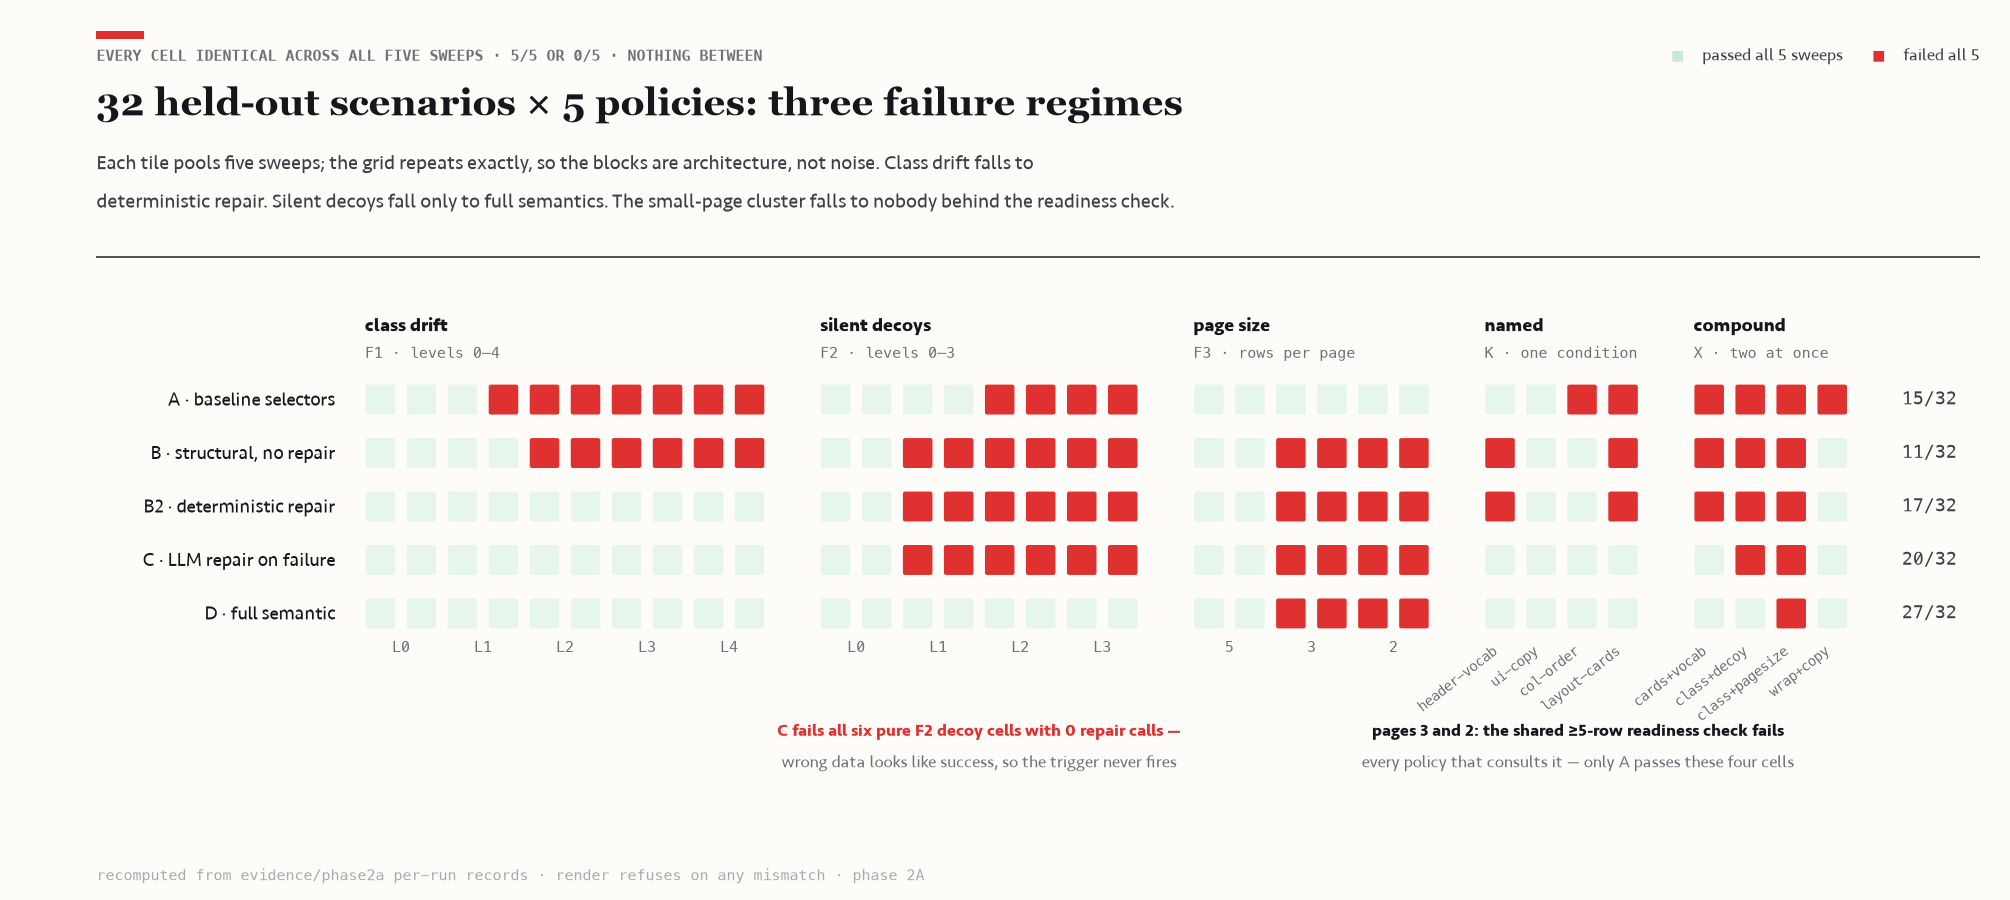
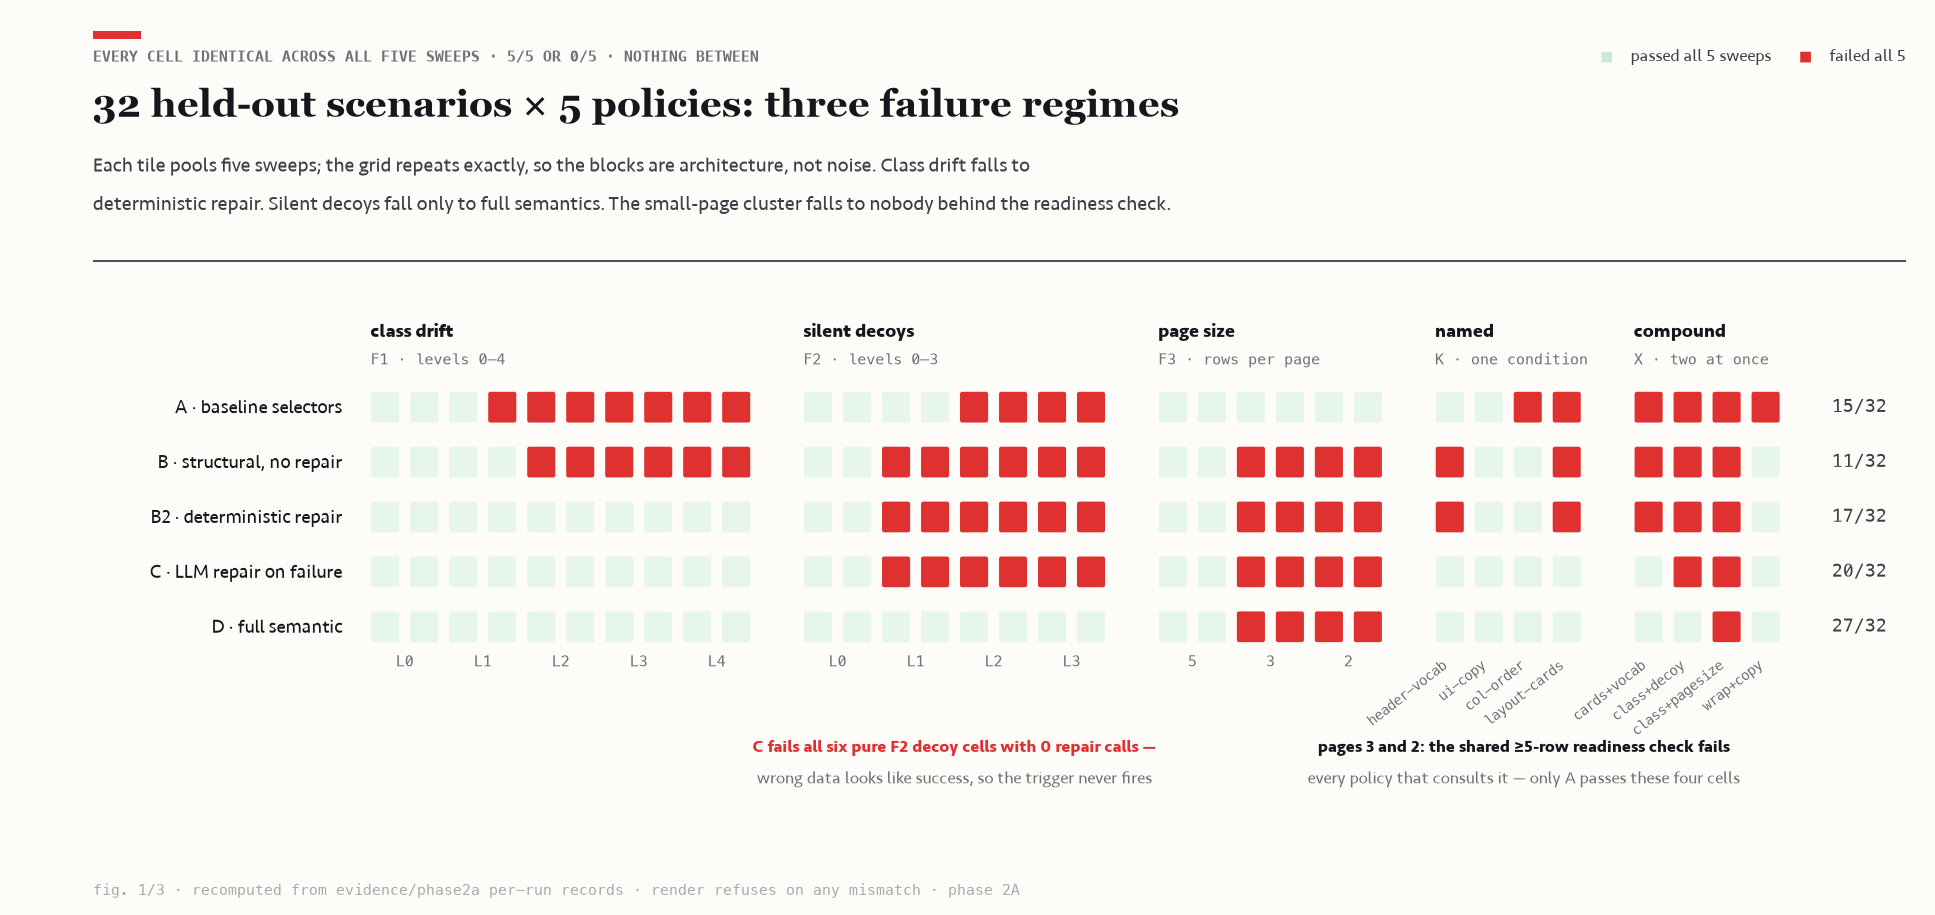
Unify the three charts into one design system; glow drops to a whisper
Operator: anything beyond the subtlest underglow is tacky, and the three
charts should share one pattern. Now: one 12.9x6.1 canvas and identical
masthead geometry across all three; bars adopt the map's top-right dot
legend (inline mono explainer removed); underglow survives only beneath
the two paid scatter marks at peak 0.10 and the white pinprick core is
gone; bar-cap blooms removed (the duotone gradient carries the depth);
scatter A/B2 label crowding fixed; faint-bar figures lift from FAINT to
MUTED; y-labels unified; each chart signs its footnote as fig. n/3.

diff --git a/scripts/render-phase2a-charts.py b/scripts/render-phase2a-charts.py
@@ -201,12 +201,10 @@ def dot(ax, x, y, color, light, s=66, filled=True):
     Every mark sits in a soft Gaussian bloom of its own hue (paid marks burn
     brighter); filled dots are lit from within: saturated rim, light-partner
     body, near-white hot center."""
-    bloom(ax, x, y, color, rx=0.05, ry=2.55, peak=0.34 if filled else 0.16)
     if filled:
+        bloom(ax, x, y, color, rx=0.042, ry=2.6, peak=0.10)
         ax.scatter([x], [y], s=s, color=color, lw=0.7, edgecolors=BG, zorder=3)
         ax.scatter([x], [y], s=s * 0.52, color=light, alpha=1.0, lw=0, zorder=4)
-        ax.scatter([x], [y], s=s * 0.20, color=blend(light, "#FFFFFF", 0.65),
-                   alpha=0.95, lw=0, zorder=5)
     else:
         ax.scatter([x], [y], s=s, facecolors=BG, edgecolors=color, lw=1.6, zorder=3)
 
@@ -258,9 +256,10 @@ def verdict(ax, x, y, line1, line2, color, ha="left"):
             ha=ha, va="top", linespacing=1.5)
 
 
-def footnote(fig, extra=""):
+def footnote(fig, extra="", num=None):
+    lead = f"fig. {num}/3 · " if num else ""
     fig.text(0.048, 0.018,
-             "recomputed from evidence/phase2a per-run records · render refuses on any mismatch"
+             lead + "recomputed from evidence/phase2a per-run records · render refuses on any mismatch"
              + (f" · {extra}" if extra else "") + " · phase 2A",
              fontsize=7.2, color=FAINT, family=MONO, ha="left", va="bottom")
 
@@ -273,9 +272,9 @@ def bare(ax):
 
 
 def chart_outcome_map(cells):
-    fig, ax = plt.subplots(figsize=(13.4, 6.0), dpi=150)
+    fig, ax = plt.subplots(figsize=(12.9, 6.1), dpi=150)
     fig.patch.set_facecolor(BG)
-    fig.subplots_adjust(left=0.175, right=0.985, top=0.66, bottom=0.155)
+    fig.subplots_adjust(left=0.185, right=0.985, top=0.66, bottom=0.15)
 
     gap = 1.1
     xpos, bounds = {}, []
@@ -348,15 +347,15 @@ def chart_outcome_map(cells):
            "Each tile pools five sweeps; the grid repeats exactly, so the blocks are architecture, not noise. Class drift falls to\n"
            "deterministic repair. Silent decoys fall only to full semantics. The small-page cluster falls to nobody behind the readiness check.",
            legend=[("passed all 5 sweeps", "#C9E9D6"), ("failed all 5", VERM)])
-    footnote(fig)
+    footnote(fig, num=1)
     fig.savefig(OUT / "outcome_map.png", facecolor=BG)
     plt.close(fig)
 
 
 def chart_pass_vs_cost(cells, costs):
-    fig, ax = plt.subplots(figsize=(11.4, 6.3), dpi=150)
+    fig, ax = plt.subplots(figsize=(12.9, 6.1), dpi=150)
     fig.patch.set_facecolor(BG)
-    fig.subplots_adjust(left=0.085, right=0.955, top=0.665, bottom=0.13)
+    fig.subplots_adjust(left=0.075, right=0.96, top=0.66, bottom=0.13)
     bare(ax)
     ax.grid(axis="y", color=GRID, lw=0.8)
     ax.set_axisbelow(True)
@@ -368,7 +367,7 @@ def chart_pass_vs_cost(cells, costs):
         pts[pol] = (cost, npass)
         dot(ax, cost, npass, POLICY_COLOR[pol], POLICY_LIGHT[pol], filled=pol in KEYED)
 
-    offsets = {"A": (0.022, 0.0), "B": (0.022, 0.0), "B2": (0.022, 0.0),
+    offsets = {"A": (0.022, -1.62), "B": (0.022, 0.0), "B2": (0.022, 0.30),
                "C": (0.022, 0.25), "D": (-0.026, 0.25)}
     align = {"D": "right"}
     for pol, (cost, npass) in pts.items():
@@ -392,7 +391,7 @@ def chart_pass_vs_cost(cells, costs):
         tick.set_fontfamily(MONO)
     ax.set_xlabel("model-inference cost per 32-scenario sweep", fontsize=8,
                   family=MONO, color=MUTED, labelpad=8)
-    ax.set_ylabel("scenario cells passed · of 32", fontsize=8,
+    ax.set_ylabel("cells passed · of 32", fontsize=8,
                   family=MONO, color=MUTED, labelpad=8)
 
     verdict(ax, 0.63, 17.6,
@@ -407,15 +406,15 @@ def chart_pass_vs_cost(cells, costs):
            "lands under the hardcoded baseline; deterministic repair (B2) is the best free policy; LLM repair (C) adds three\n"
            "cells for twelve cents; full semantics (D) adds the seven decoy cells for a dollar.",
            legend=None, rule_y=0.70)
-    footnote(fig)
+    footnote(fig, num=2)
     fig.savefig(OUT / "pass_vs_cost.png", facecolor=BG)
     plt.close(fig)
 
 
 def chart_gate_effect(cells):
-    fig, ax = plt.subplots(figsize=(11.4, 5.7), dpi=150)
+    fig, ax = plt.subplots(figsize=(12.9, 6.1), dpi=150)
     fig.patch.set_facecolor(BG)
-    fig.subplots_adjust(left=0.075, right=0.955, top=0.645, bottom=0.115)
+    fig.subplots_adjust(left=0.075, right=0.96, top=0.66, bottom=0.13)
     bare(ax)
     ax.grid(axis="y", color=GRID, lw=0.8)
     ax.set_axisbelow(True)
@@ -427,11 +426,9 @@ def chart_gate_effect(cells):
         ex = sum(all(p for _, p, _ in cells[pol][s]) for s in SCENARIOS if s not in GATE5) / 27
         ax.bar(i - w / 2 - 0.02, full * 100, w,
                color=blend(POLICY_LIGHT[pol], BG, 0.45), zorder=2)
-        bloom(ax, i + w / 2 + 0.02, ex * 100, col, rx=0.26, ry=11,
-              peak=0.30 if pol == "D" else 0.22)
         grad_bar(ax, i + w / 2 + 0.02, ex * 100, w, col, POLICY_LIGHT[pol])
         ax.text(i - w / 2 - 0.02, full * 100 + 1.6, f"{full * 100:.0f}", fontsize=8,
-                family=MONO, color=FAINT, ha="center")
+                family=MONO, color=MUTED, ha="center")
         ax.text(i + w / 2 + 0.02, ex * 100 + 1.6, f"{ex * 100:.0f}", fontsize=8.6,
                 family=MONO, color=INK, ha="center", fontweight="bold")
 
@@ -449,19 +446,16 @@ def chart_gate_effect(cells):
     ax.set_yticklabels(["0%", "25%", "50%", "75%", "100%"], fontsize=8)
     for tick in ax.get_yticklabels():
         tick.set_fontfamily(MONO)
-    ax.set_ylabel("cells passed", fontsize=8, family=MONO, color=MUTED,
+    ax.set_ylabel("cells passed · %", fontsize=8, family=MONO, color=MUTED,
                   labelpad=8)
-
-    ax.text(0, 106.5, "faint · full 32-cell grid      solid · the 27 cells outside the readiness-gate cluster",
-            fontsize=7.6, family=MONO, color=MUTED, ha="left")
 
     header(fig,
            "A DESCRIPTIVE CUT, NOT A REGISTERED METRIC",
            "Remove the five gate cells and the ladder is a clean dose-response",
            "The five columns where the shared ≥5-row readiness check blocks every gated policy are set aside.\n"
            "What remains orders exactly by how much semantics each policy buys — B2 < C < D, with D perfect.",
-           legend=None)
-    footnote(fig)
+           legend=[("full 32-cell grid", "#DCD6CB"), ("the 27 cells outside the gate cluster", "#57504A")])
+    footnote(fig, num=3)
     fig.savefig(OUT / "gate_effect.png", facecolor=BG)
     plt.close(fig)
 
